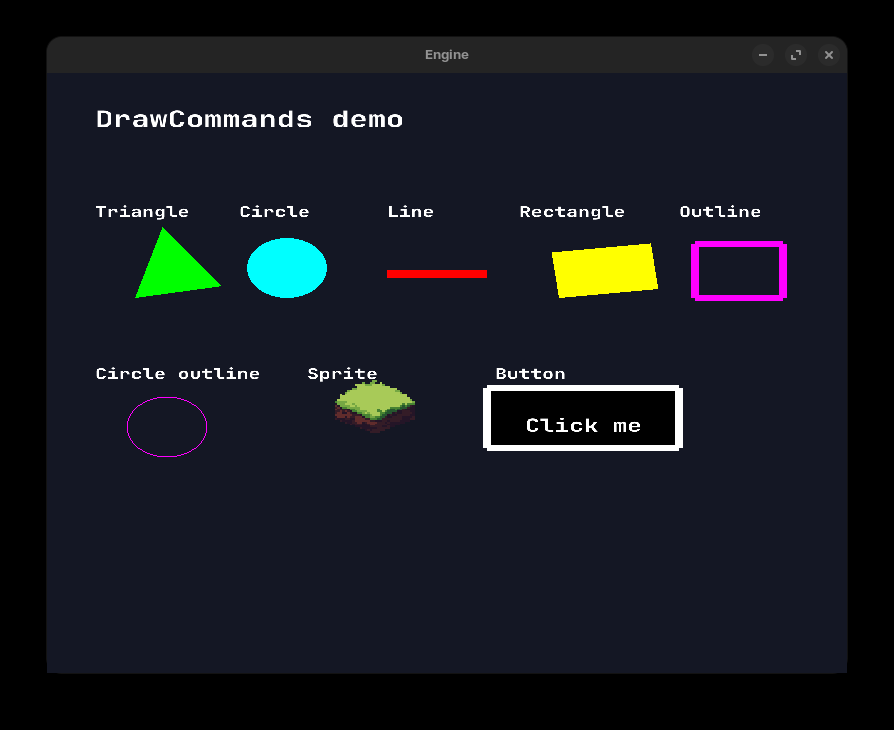
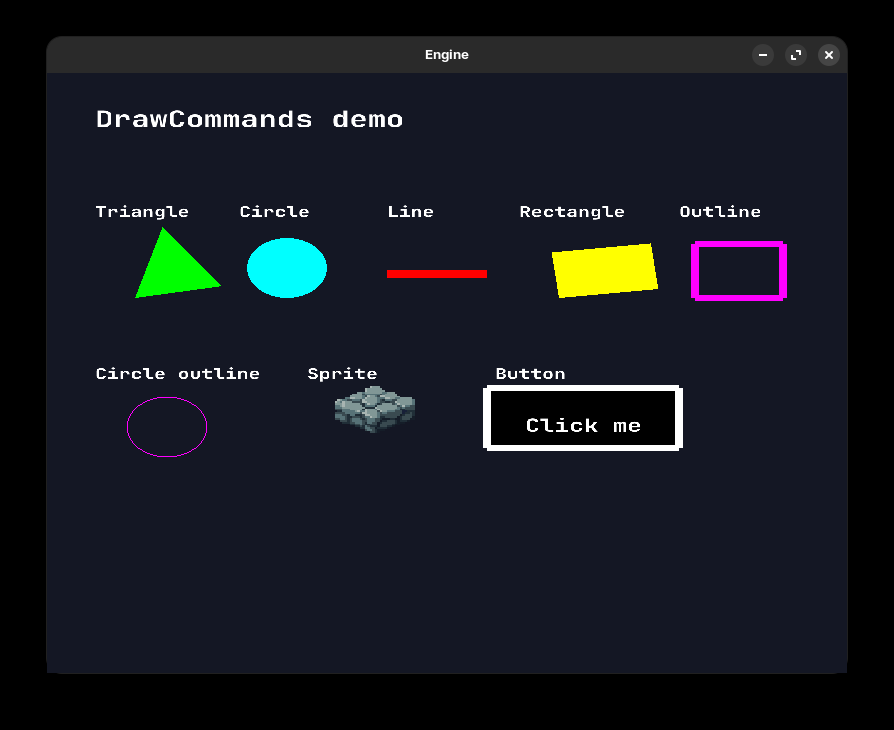
Show a rock texture in the sample Game

Changed region(s): [[0.3624, 0.5123, 0.4832, 0.6027], [0.906, 0.0603, 0.9362, 0.0904], [0.4832, 0.0603, 0.5134, 0.0904]]

diff --git a/Game/Game.cs b/Game/Game.cs
@@ -37,7 +37,7 @@ public class Game : IGame
 
         Console.WriteLine("Game: Initializing game...");
 
-        _tileTexture = textureAssets.Load("Terrain/Grass/tile_022");
+        _tileTexture = textureAssets.Load("Terrain/Rocks/tile_061");
 
         string fontPath = Path.Combine(
             AppContext.BaseDirectory,
